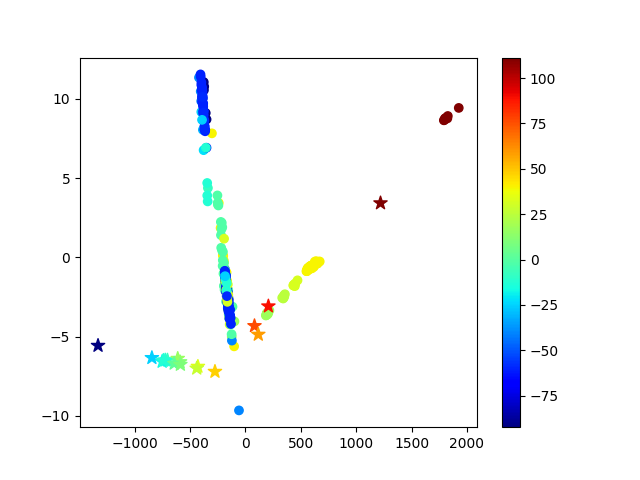
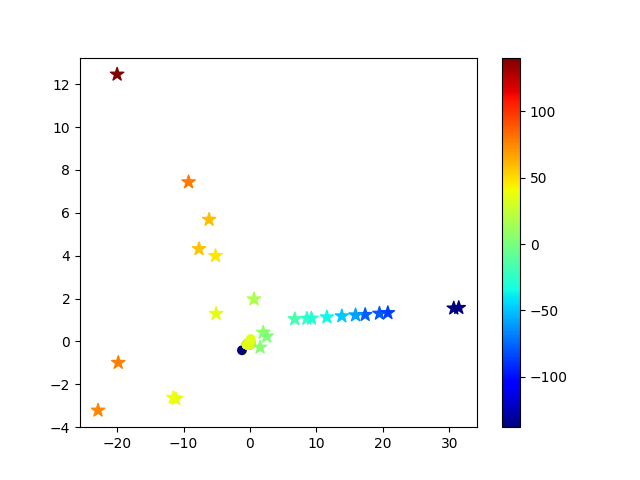
combined model implemented

diff --git a/combined_loss.py b/combined_loss.py
@@ -8,11 +8,11 @@ from torch_geometric.data import DataLoader
 import os
 import torch
 from torch import nn
-from models.model2 import Net
+from models.model import Net
 from tqdm import tqdm
 
 
-BATCHSIZE = 32
+BATCHSIZE = 64
 start_time = time.time()
 print("Training...")
 data_train = UPuppiV0("/work/submit/cfalor/upuppi/deepjet-geometric/train/")
@@ -24,12 +24,12 @@ train_loader = DataLoader(data_train, batch_size=BATCHSIZE, shuffle=True,
 test_loader = DataLoader(data_test, batch_size=BATCHSIZE, shuffle=True,
                          follow_batch=['x_pfc', 'x_vtx'])
 
-model = "embedding_model"
+model = "combined_model"
 model_dir = '/work/submit/cfalor/upuppi/deepjet-geometric/models/{}/'.format(model)
 #model_dir = '/home/yfeng/UltimatePuppi/deepjet-geometric/models/v0/'
 
 device = torch.device('cuda' if torch.cuda.is_available() else 'cpu')
-device = torch.device('cpu')
+# device = torch.device('cpu')
 # print the device used
 print("Using device: ", device, torch.cuda.get_device_name(0))
 
@@ -37,7 +37,7 @@ print("Using device: ", device, torch.cuda.get_device_name(0))
 upuppi = Net().to(device)
 optimizer = torch.optim.Adam(upuppi.parameters(), lr=0.001)
 
-def loss_fn(data, pfc_enc, vtx_enc):
+def embedding_loss(data, pfc_enc, vtx_enc):
     total_pfc_loss = 0
     total_vtx_loss = 0
     reg_loss = 0
@@ -79,7 +79,7 @@ def loss_fn(data, pfc_enc, vtx_enc):
 
 
 
-def train():
+def train(c_ratio=0.1):
     upuppi.train()
     counter = 0
     total_loss = 0
@@ -87,8 +87,12 @@ def train():
         counter += 1
         data = data.to(device)
         optimizer.zero_grad()
-        pfc_enc, vtx_enc = upuppi(data.x_pfc, data.x_vtx, data.x_pfc_batch, data.x_vtx_batch)
-        loss = loss_fn(data, pfc_enc, vtx_enc)
+        out, batch, pfc_enc, vtx_enc = upuppi(data.x_pfc, data.x_vtx, data.x_pfc_batch, data.x_vtx_batch)
+        emb_loss = embedding_loss(data, pfc_enc, vtx_enc)
+        regression_loss = nn.MSELoss()(out.squeeze(), data.y)
+        # Print values of losses
+        print("Regression loss: ", regression_loss.item(), " Embedding loss: ", emb_loss.item())
+        loss = (c_ratio*emb_loss) + (1-c_ratio)*regression_loss
         loss.backward()
         optimizer.step()
         total_loss += loss.item()
@@ -108,8 +112,9 @@ def test():
         counter += 1
         data = data.to(device)
         optimizer.zero_grad()
-        pfc_enc, vtx_enc = upuppi(data.x_pfc, data.x_vtx, data.x_pfc_batch, data.x_vtx_batch)
-        loss = loss_fn(data, pfc_enc, vtx_enc)
+        out, batch, pfc_enc, vtx_enc = upuppi(data.x_pfc, data.x_vtx, data.x_pfc_batch, data.x_vtx_batch)
+        regression_loss = nn.MSELoss()(out.squeeze(), data.y)
+        loss = regression_loss
         total_loss += loss.item()
     total_loss = total_loss / counter        
     return total_loss

diff --git a/models/model.py b/models/model.py
@@ -15,8 +15,7 @@ class Net(nn.Module):
         self.vtx_encode = nn.Sequential(
             nn.Linear(4, hidden_dim),
             nn.LeakyReLU(),
-            nn.Linear(hidden_dim, hidden_dim),
-            nn.LeakyReLU()
+            nn.Linear(hidden_dim, hidden_dim)
         )
 
         #self.glob_encode = nn.Sequential(
@@ -30,13 +29,12 @@ class Net(nn.Module):
             self.pfc_encode = nn.Sequential(
                 nn.Linear(13, hidden_dim),
                 nn.LeakyReLU(),
-                nn.Linear(hidden_dim, hidden_dim),
-                nn.LeakyReLU()
+                nn.Linear(hidden_dim, hidden_dim)
             )
 
             self.conv = DynamicEdgeConv(
                 nn=nn.Sequential(nn.Linear(2*hidden_dim, hidden_dim), nn.LeakyReLU()),
-                k=40
+                k=64
             )
 
             self.output = nn.Sequential(
@@ -72,7 +70,10 @@ class Net(nn.Module):
             feats1 = self.conv(x=(x_pfc_enc, x_pfc_enc), batch=(batch_pfc, batch_pfc))
 
             # similarly a representation of PFs-clusters amalgam to PFs
-            feats2 = self.conv(x=(x_vtx_enc, feats1), batch=(batch_vtx, batch_pfc))
+            # concat x_vtx_enc and feats1
+            combined_feats = torch.cat((x_vtx_enc, feats1), dim=0)
+            combined_batch = torch.cat((batch_vtx, batch_pfc), dim=0)
+            feats2 = self.conv(x=(combined_feats, feats1), batch=(combined_batch, batch_pfc))
 
             # now to global variables
             #feats3 = self.conv(x=(x_glob_enc, feats2), batch=(batch_pfc, batch_pfc))
@@ -84,4 +85,4 @@ class Net(nn.Module):
         else:
             out = self.pfc_encode(x_pfc)
 
-        return out, batch
+        return out, batch, feats1, x_vtx_enc

diff --git a/visualize_embeddings.py b/visualize_embeddings.py
@@ -11,7 +11,7 @@ from torch_geometric.data import DataLoader
 
 # random seed
 np.random.seed(0)
-torch.manual_seed(42)
+torch.manual_seed(23)
 
 def visualize_embeddings(pfc_embeddings, vtx_embeddings, pfc_truth, vtx_truth, save_path):
     # given the embeddings of pfc and vtx, perform PCA and plot the embeddings
@@ -75,5 +75,5 @@ if __name__ == '__main__':
         charged_idx = torch.nonzero(data.x_pfc[:,11] != 0).squeeze()
         neutral_embeddings = pfc_embeddings[neutral_idx]
         neutral_truth = pfc_truth[neutral_idx]
-        visualize_embeddings(pfc_embeddings.cpu().numpy(), vtx_embeddings.cpu().numpy(), pfc_truth, vtx_truth, 'vis_emb{}.png'.format(epoch_num))
+        visualize_embeddings(neutral_embeddings.cpu().numpy(), vtx_embeddings.cpu().numpy(), neutral_truth, vtx_truth, 'vis_emb{}.png'.format(epoch_num))
 
